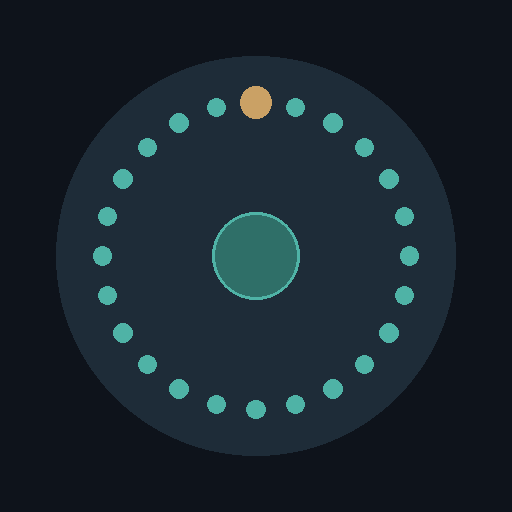
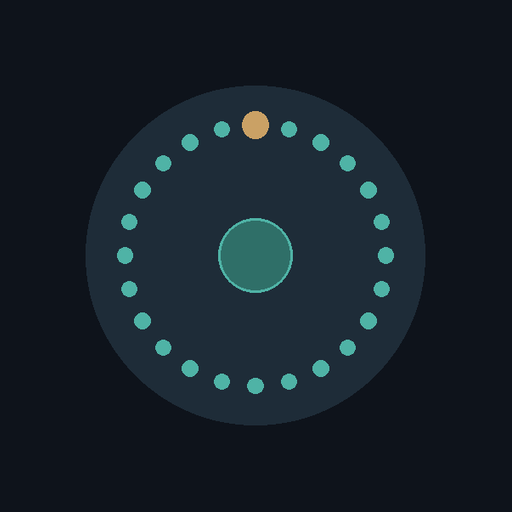
다라니경 버전 관련 수정

Changed region(s): [[0.0938, 0.0938, 0.9062, 0.9062], [0.4062, 0.4062, 0.5938, 0.5938]]

diff --git a/sw.js b/sw.js
@@ -1,7 +1,7 @@
 const CACHE_NAME = 'dharani-cache-v1.13';
 const APP_SHELL = [
   './index.html',
-  './privacy.html',
+  './privacyDarani.html',
   './manifest.json',
   './icons/icon-192.png',
   './icons/icon-512.png',
